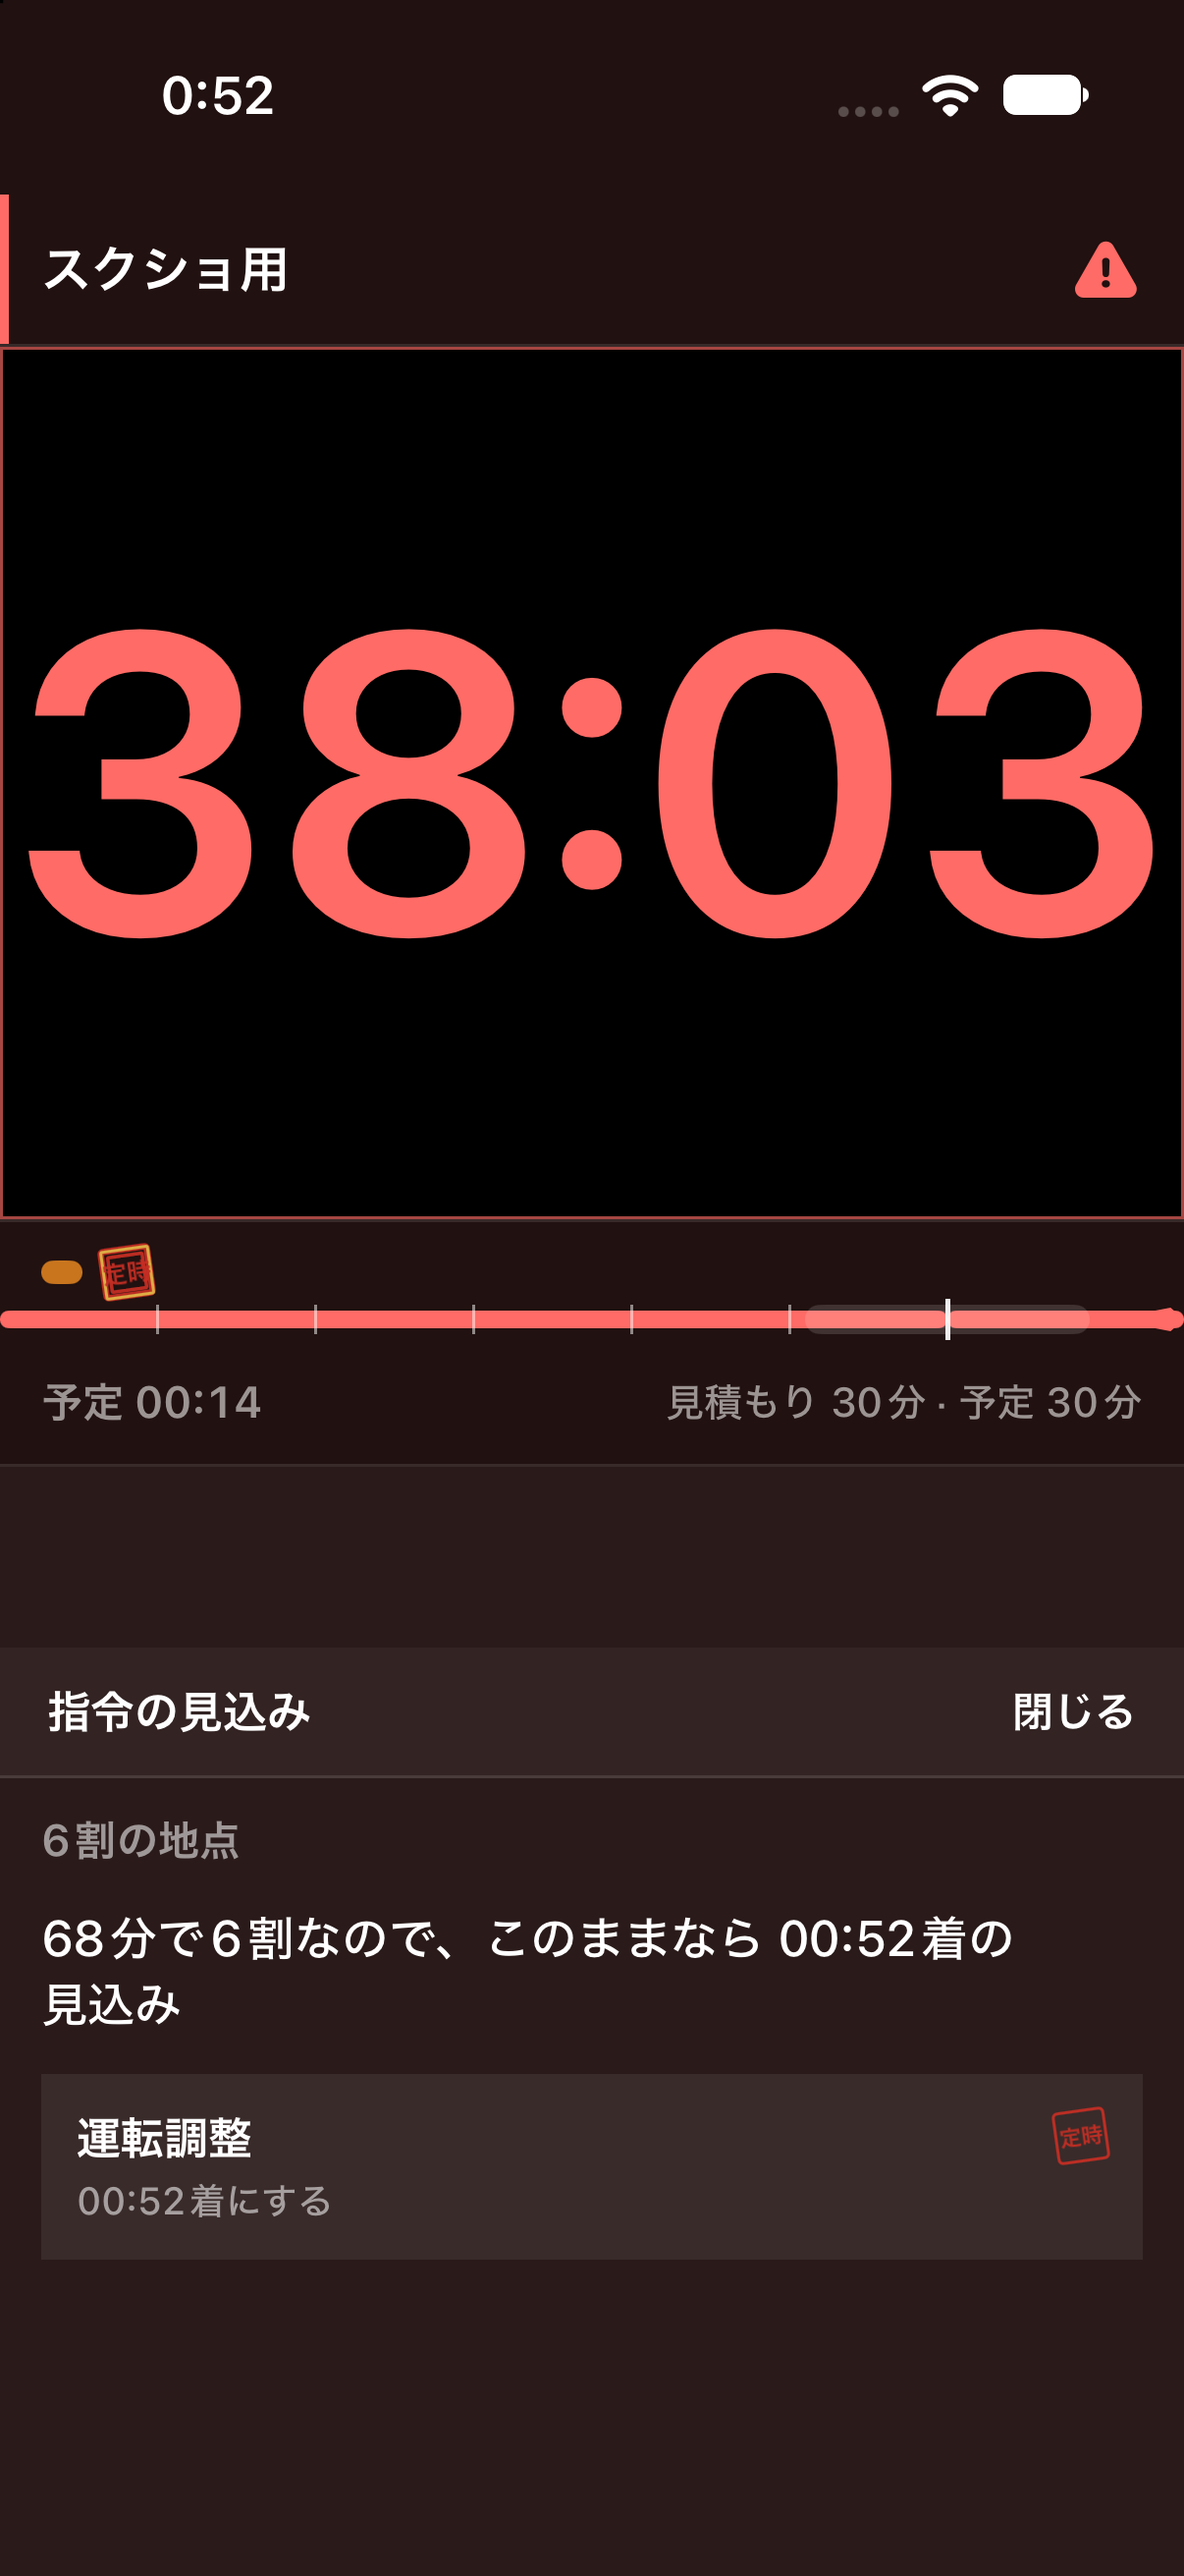
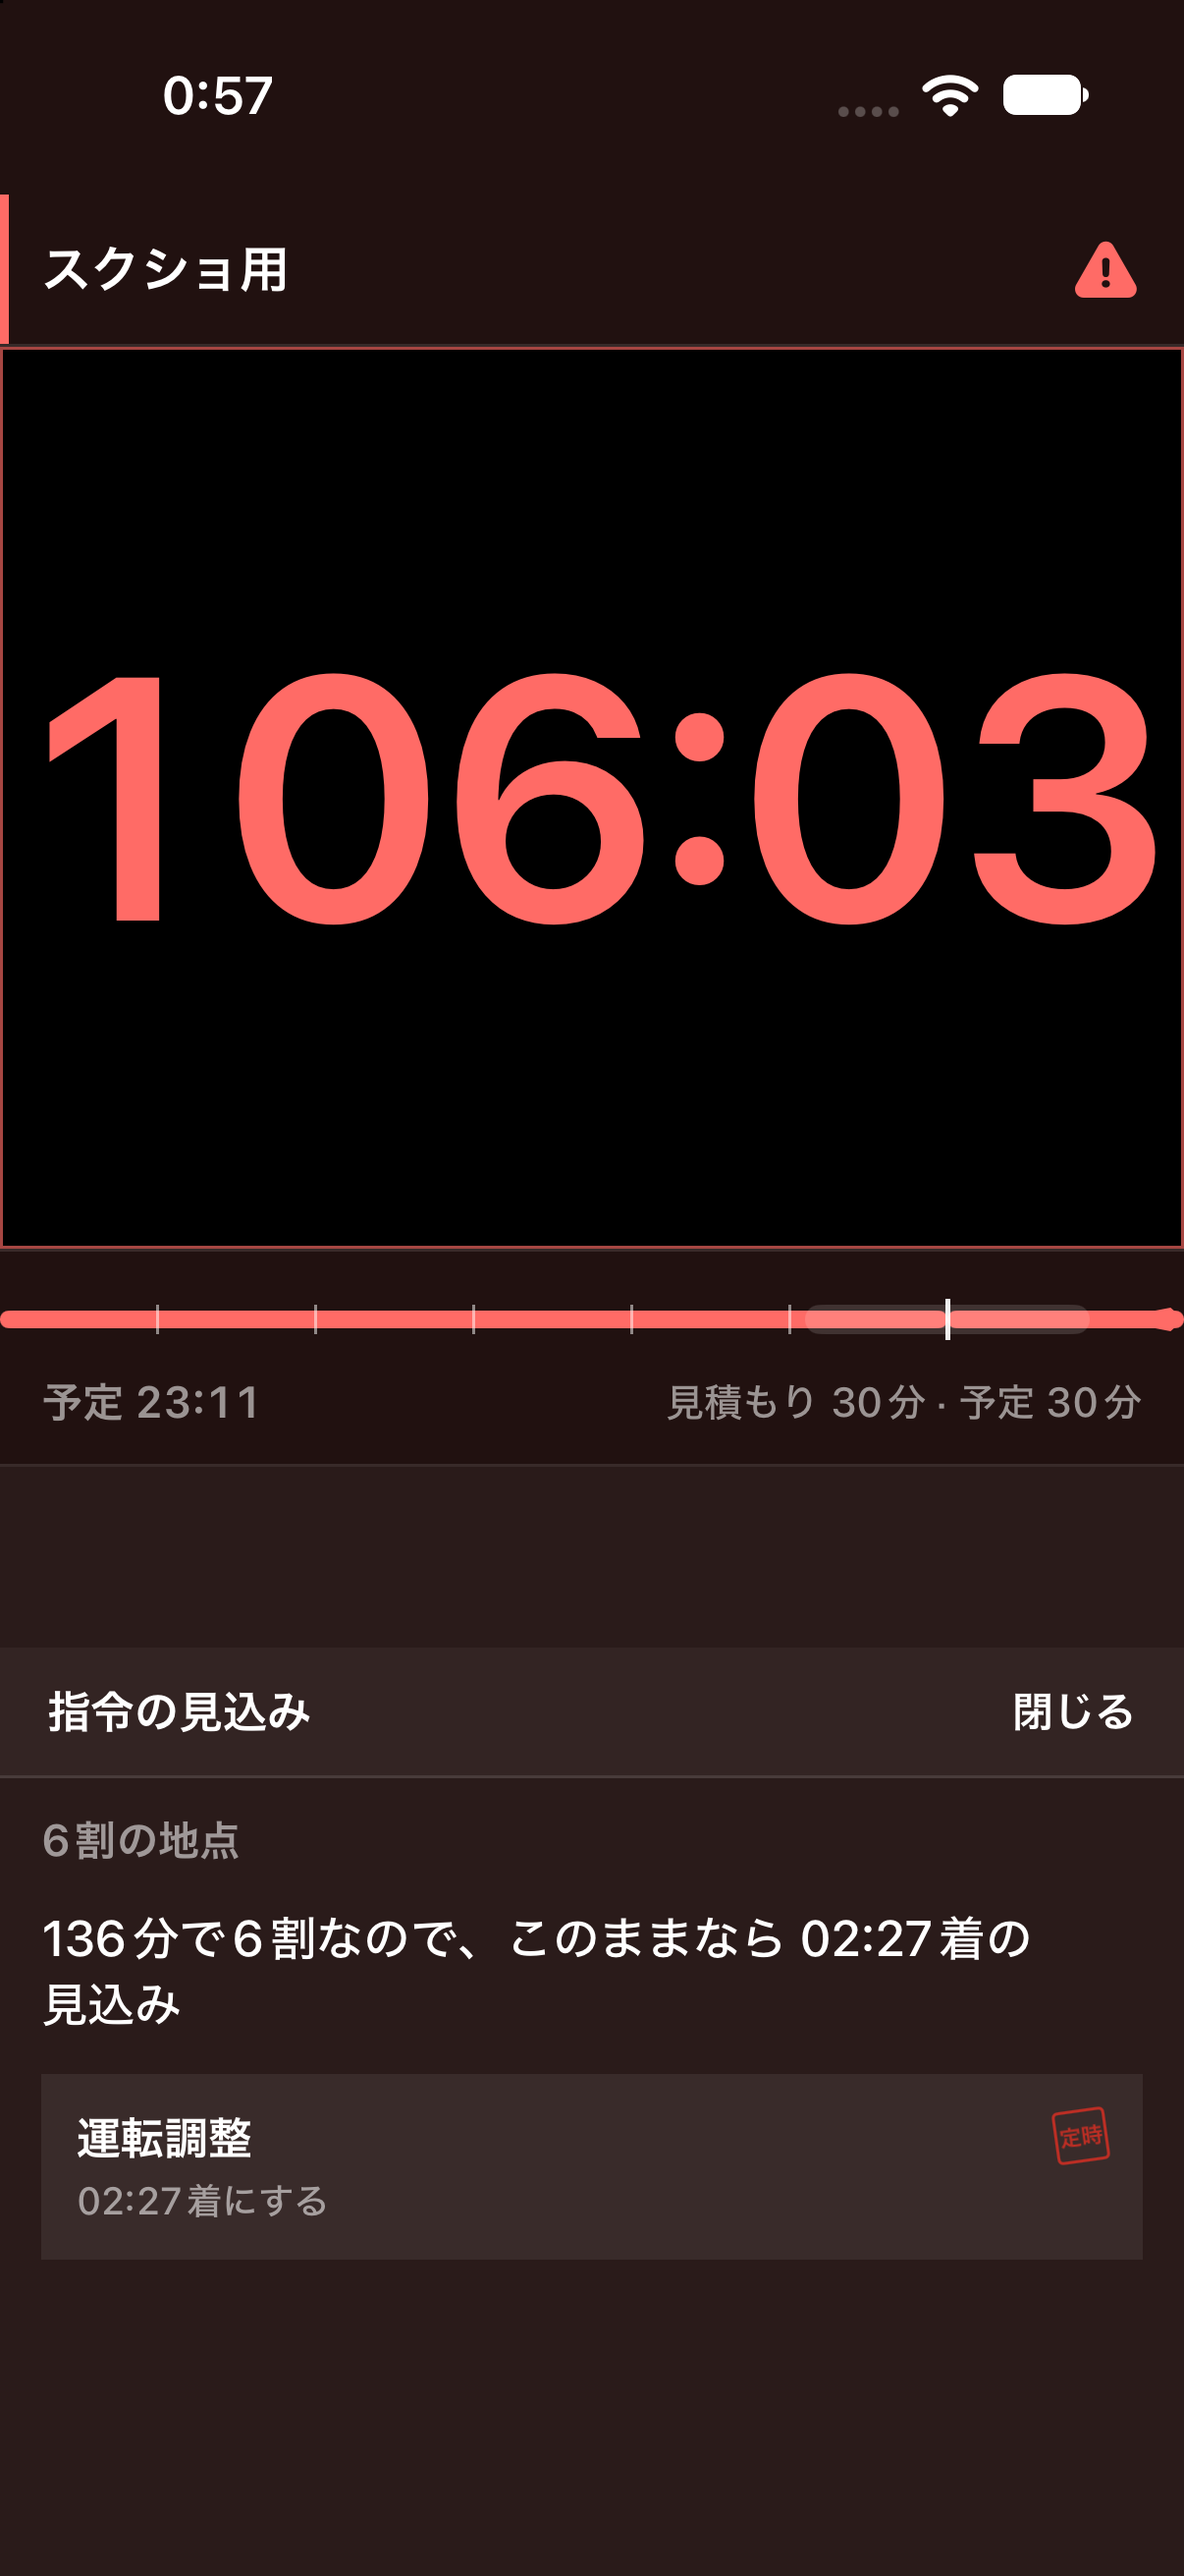
fix(focus): compute projected arrival from projection minus active
Derive remaining and arrival from PositionReport projection helpers so
overtime cannot clamp to now when preview totals disagree with elapsed.
Align overtime DEBUG preview to 68 minutes at six tenths.

diff --git a/Packages/TodoTrainSync/Sources/TodoTrainSync/PositionReport.swift b/Packages/TodoTrainSync/Sources/TodoTrainSync/PositionReport.swift
@@ -10,6 +10,47 @@ public enum PositionReport: Sendable {
         return activeSeconds / p
     }
 
+    /// 見込みの全体秒から走行を引いた残り（運転調整の記録と着時刻の共通根拠）。
+    public static func projectedRemainingSeconds(
+        activeSeconds: TimeInterval,
+        progress: Double
+    ) -> TimeInterval? {
+        guard let total = projection(activeSeconds: activeSeconds, progress: progress) else { return nil }
+        return total - activeSeconds
+    }
+
+    /// `now + (projection − activeSeconds)`。予算や残りタイマーは使わない。
+    public static func projectedArrival(
+        now: Date,
+        activeSeconds: TimeInterval,
+        progress: Double
+    ) -> Date? {
+        guard let remaining = projectedRemainingSeconds(activeSeconds: activeSeconds, progress: progress) else {
+            return nil
+        }
+        return now.addingTimeInterval(remaining)
+    }
+
+    /// 運転調整で保存する見込みの全体秒（整数秒）。
+    public static func projectedTotalSecondsInt(
+        activeSeconds: TimeInterval,
+        progress: Double
+    ) -> Int? {
+        guard let total = projection(activeSeconds: activeSeconds, progress: progress) else { return nil }
+        return Int(total.rounded())
+    }
+
+    /// 運転調整で保存する `committedRemainingSeconds`。
+    public static func committedRemainingSeconds(
+        activeSeconds: TimeInterval,
+        progress: Double
+    ) -> Int? {
+        guard let total = projectedTotalSecondsInt(activeSeconds: activeSeconds, progress: progress) else {
+            return nil
+        }
+        return total - Int(activeSeconds.rounded())
+    }
+
     /// 運転調整をいま確定したときの判の豪華さ（確定後の `sealLuxury` と同じ丸め）。
     public static func adjustLuxuryPreview(progress: Double) -> Double {
         let p = min(max(progress, 0), 1)

diff --git a/Todo train/Features/Focus/FocusReestimatePanel.swift b/Todo train/Features/Focus/FocusReestimatePanel.swift
@@ -172,8 +172,12 @@ struct FocusReestimatePanel: View {
                     .foregroundStyle(FocusPanel.muted)
             }
 
-            if showChoices, let projectedTotalSeconds, let progressAnswer {
-                let projectedArrival = now.addingTimeInterval(max(0, projectedTotalSeconds - activeSeconds))
+            if showChoices, let progressAnswer,
+               let projectedArrival = PositionReport.projectedArrival(
+                   now: now,
+                   activeSeconds: activeSeconds,
+                   progress: progressAnswer
+               ) {
                 let activeMinutes = max(1, Int((activeSeconds / 60).rounded()))
                 let tenth = Int((progressAnswer * 10).rounded())
                 Text(PositionReportWording.projectionDetail(
@@ -301,8 +305,12 @@ struct FocusReestimatePanel: View {
     }
 
     private func commit(_ declaration: ReestimateDeclaration) {
-        guard let progressAnswer, let projectedTotalSeconds else { return }
-        let projectedInt = Int(projectedTotalSeconds.rounded())
+        guard let progressAnswer,
+              let projectedInt = PositionReport.projectedTotalSecondsInt(
+                  activeSeconds: activeSeconds,
+                  progress: progressAnswer
+              )
+        else { return }
         onCommit(declaration, progressAnswer, projectedInt)
     }
 

diff --git a/Packages/TodoTrainSync/Tests/TodoTrainSyncTests/PositionReportTests.swift b/Packages/TodoTrainSync/Tests/TodoTrainSyncTests/PositionReportTests.swift
@@ -53,6 +53,29 @@ struct PositionReportTests {
         )
     }
 
+    @Test func projectedRemaining_overtimeSixTenthsOfSixtyEightMinutes() {
+        let active = TimeInterval(68 * 60)
+        let progress = 0.6
+        let remaining = PositionReport.projectedRemainingSeconds(
+            activeSeconds: active,
+            progress: progress
+        )
+        #expect(remaining != nil)
+        let minutes = (remaining! / 60)
+        #expect(minutes > 44.5)
+        #expect(minutes < 46.0)
+        let total = PositionReport.projectedTotalSecondsInt(activeSeconds: active, progress: progress)
+        #expect(total == Int((active / progress).rounded()))
+        let committed = PositionReport.committedRemainingSeconds(activeSeconds: active, progress: progress)
+        #expect(committed == total! - 68 * 60)
+        let arrival = PositionReport.projectedArrival(
+            now: Date(timeIntervalSince1970: 0),
+            activeSeconds: active,
+            progress: progress
+        )
+        #expect(arrival == Date(timeIntervalSince1970: remaining!))
+    }
+
     @Test func showsRecoveryDeclaration_hidesAfterOriginalScheduledArrival() {
         #expect(
             !PositionReport.showsRecoveryDeclaration(

diff --git a/Todo train/Features/Focus/FocusView.swift b/Todo train/Features/Focus/FocusView.swift
@@ -377,9 +377,15 @@ struct FocusView: View {
                     onCommit: { declaration, progress, projectedTotal in
                         run {
                             let active = sessionManager.activeSession?.elapsedSeconds(at: .now) ?? 0
-                            let remaining = declaration == .adjust
-                                ? max(0, projectedTotal - Int(active.rounded()))
-                                : Int(sessionManager.remainingSeconds.rounded())
+                            let remaining: Int
+                            if declaration == .adjust {
+                                remaining = PositionReport.committedRemainingSeconds(
+                                    activeSeconds: active,
+                                    progress: progress
+                                ) ?? 0
+                            } else {
+                                remaining = Int(sessionManager.remainingSeconds.rounded())
+                            }
                             try sessionManager.commitReestimate(
                                 mode: .positionReport,
                                 progressAnswer: progress,

diff --git a/Todo train/Features/Focus/FocusUIPreview.swift b/Todo train/Features/Focus/FocusUIPreview.swift
@@ -140,15 +140,18 @@ enum FocusUIPreview {
         case "positionReportOvertime":
             session.estimatedSecondsAtStart = 30 * 60
             session.currentBudgetSeconds = 30 * 60
-            session.accumulatedActiveSeconds = 34 * 60
-            session.segmentStartedAt = manager.clock.now.addingTimeInterval(-34 * 60)
+            session.accumulatedActiveSeconds = 68 * 60
+            session.segmentStartedAt = manager.clock.now.addingTimeInterval(-68 * 60)
             manager.reconcile(now: manager.clock.now)
             manager.presentReestimate(trigger: .planEnd, surface: .iphonePortrait)
             manager.focusReestimatePreview = FocusReestimatePreviewConfiguration(
                 stage: .declare,
                 progressValue: 60,
                 committedProgress: 0.6,
-                projectedTotalSeconds: 56 * 60
+                projectedTotalSeconds: PositionReport.projection(
+                    activeSeconds: TimeInterval(68 * 60),
+                    progress: 0.6
+                )
             )
             manager.uiPreviewForcesFocusCover = true
 
